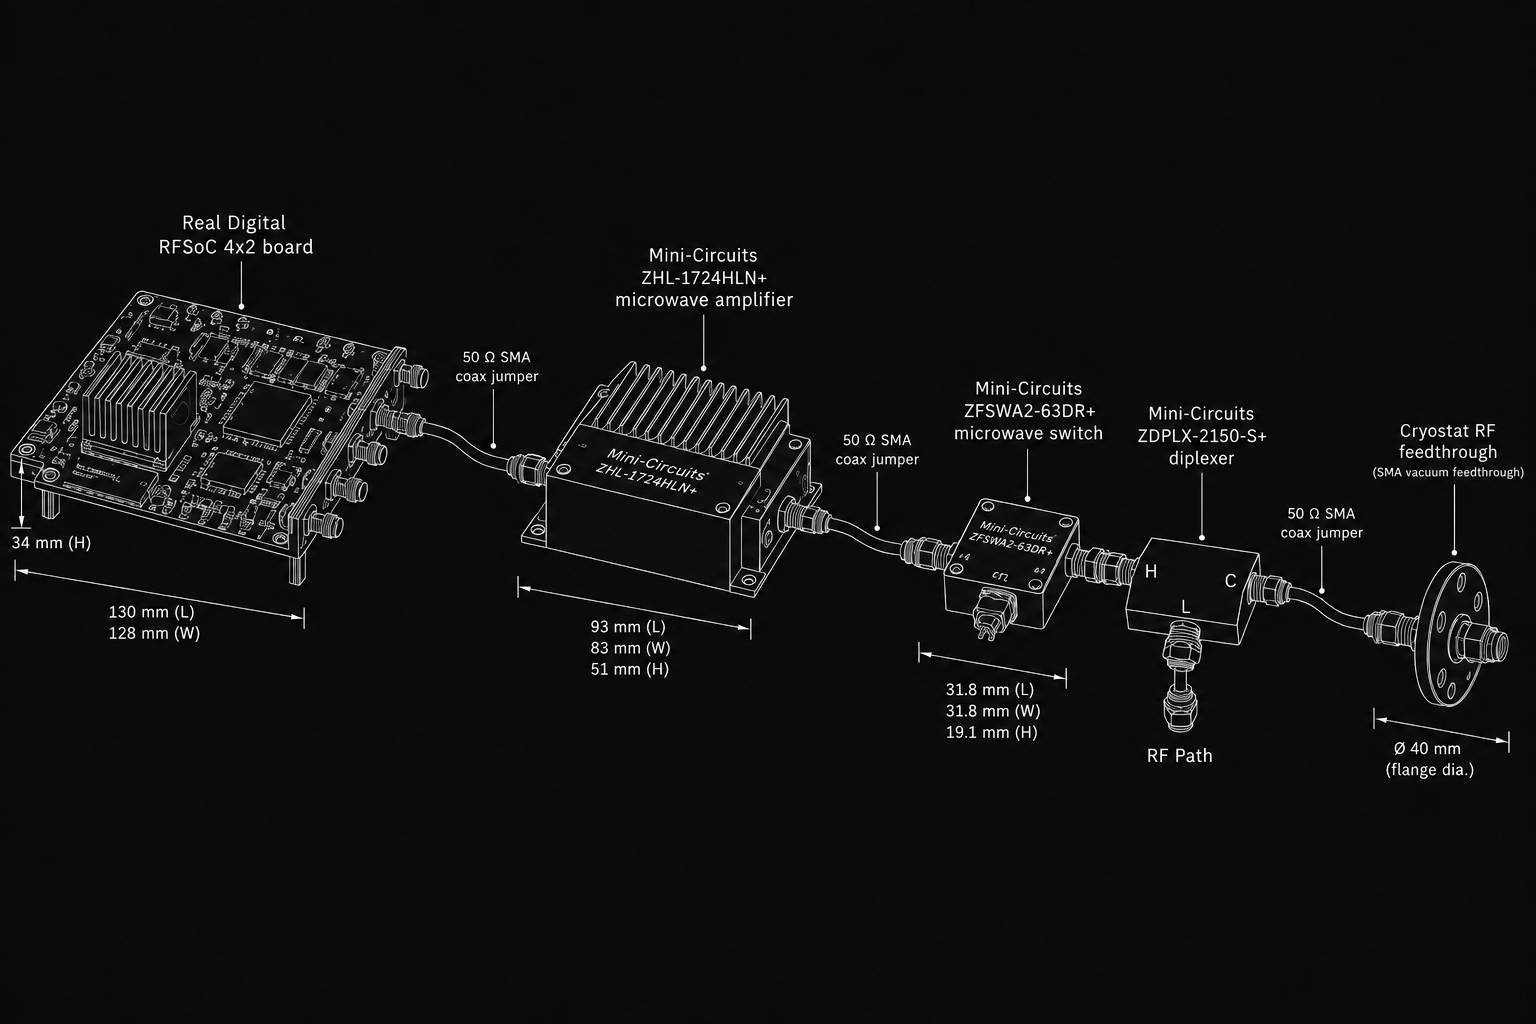
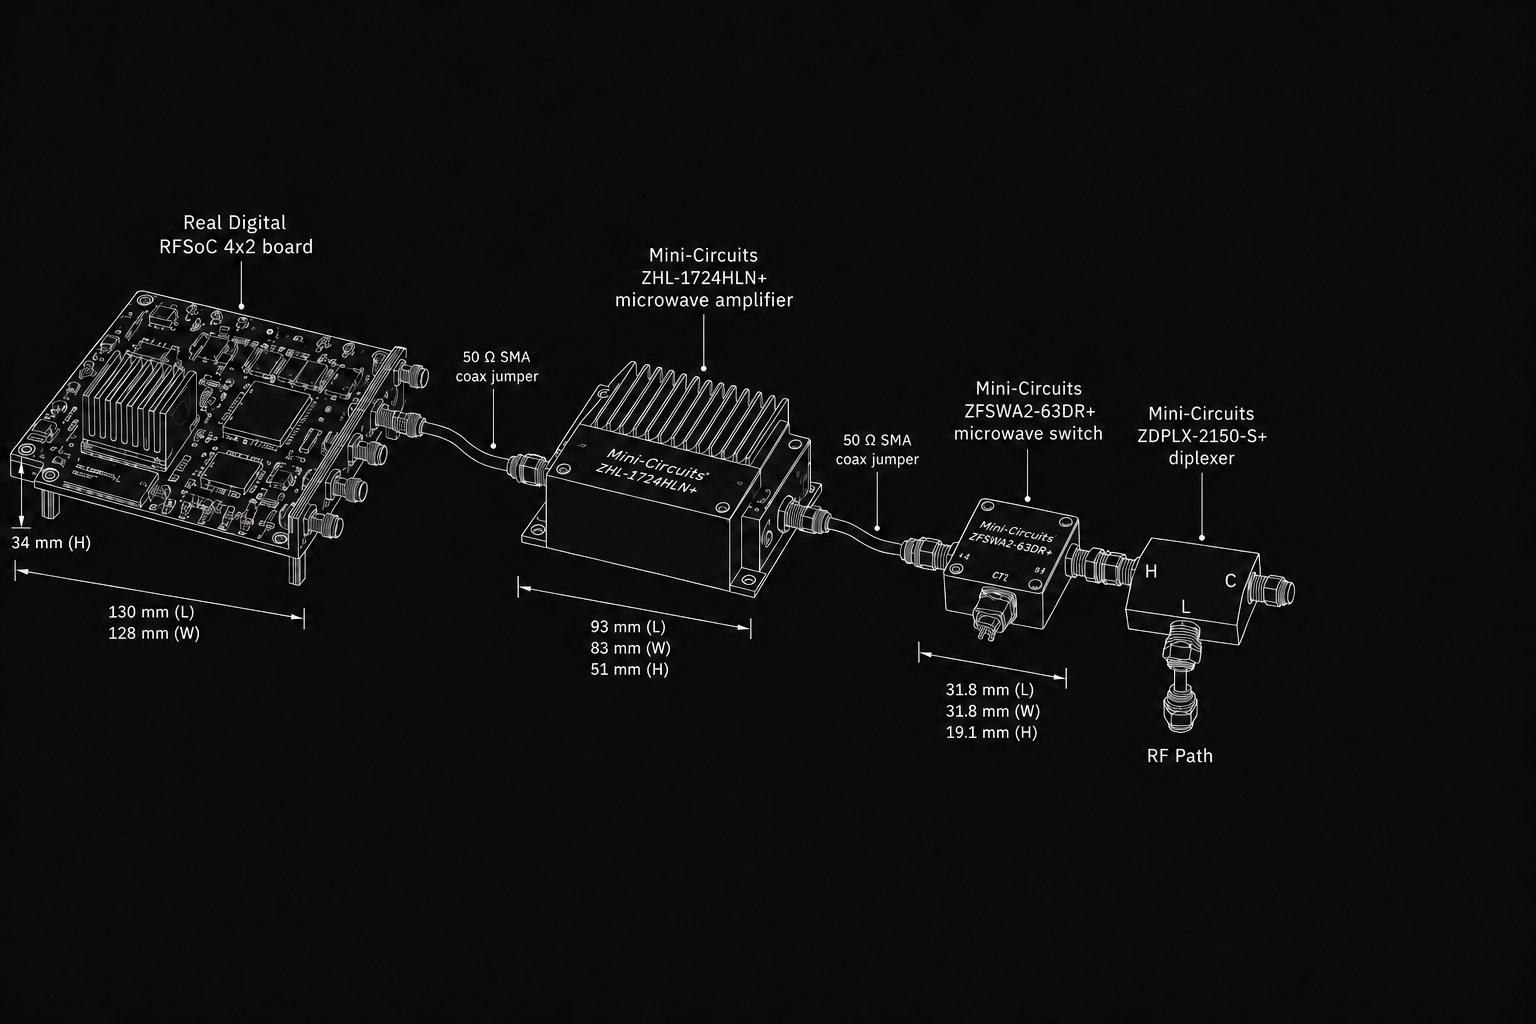
Tighten the Diamond QPU copy and refresh the MW/RF drawings.

diff --git a/web/src/DiamondQpu.tsx b/web/src/DiamondQpu.tsx
@@ -115,8 +115,8 @@ export default function DiamondQpu() {
         </p>
         <p>The diamond is then characterized to identify an NV with:</p>
         <p>
-          <strong>Stable fluorescence:</strong> the NV must remain predominantly
-          in the NV<sup>−</sup> charge state and produce a repeatable
+          <strong>Stable fluorescence:</strong> We prepare the NV into the
+          NV<sup>−</sup> charge state. It must produce a repeatable
           fluorescence count rate under repeated 515&nbsp;nm excitation, without
           significant blinking or charge-state switching. The acceptance
           threshold will be set from measured photon-count statistics during
@@ -140,7 +140,7 @@ export default function DiamondQpu() {
       </section>
 
       <section>
-        <h2>3. ASIC and flip-chip</h2>
+        <h2>3. ASIC antenna and flip-chip bonding</h2>
         <p>
           On-diamond metallisation is replaced by an ASIC. The ASIC is flip-chip
           bonded onto the diamond plate. It carries microwave and RF delivery to
@@ -158,7 +158,7 @@ export default function DiamondQpu() {
           and every entangling gate is a pulse sent through this ASIC into those
           spins. Bump geometry, trace layout, waveguide alignment and the
           required field at the NV are fixed after simulation and bonding
-          trials; we do not pattern Ti/Au rails directly onto the diamond.
+          trials.
         </p>
       </section>
 
@@ -203,7 +203,8 @@ export default function DiamondQpu() {
       <section>
         <h2>5. Cooling and optical environment</h2>
         <p>
-          The cryostat is replaced by a triple Peltier stack. Three
+          In place of a bulky cryostat, the diamond QPU uses a triple Peltier
+          stack for heat dissipation. Three
           thermoelectric stages cool the diamond package; heat is dumped through
           semiconductor heat dissipators on the hot side of the stack.
         </p>
@@ -214,9 +215,10 @@ export default function DiamondQpu() {
           for the ASIC, the photonic load and the 515&nbsp;nm diode.
         </p>
         <p>
-          Excitation and collection go through the on-chip photonic circuit. A
-          free-space objective is not required to run the machine. A microscope
-          can still be used to find the NV before bonding.
+          <strong>
+            All excitation and collection goes through the on-chip silicon
+            photonic circuit.
+          </strong>
         </p>
         <p>
           One RF line carries the combined microwave and nuclear-spin RF signal
@@ -622,17 +624,23 @@ export default function DiamondQpu() {
           <li>Run the circuits.</li>
         </ul>
         <p>The intended workflow is approximately:</p>
-        <pre>
-          <code>{`from pathfinder import PathfinderProvider
-from qiskit import transpile
-
-provider = PathfinderProvider()
-backend = provider.get_backend("diamond_qpu")
-
-circuit = transpile(circuit, backend)
-job = backend.run(circuit, shots=1000)
-
-result = job.result()`}</code>
+        <pre className="spec-py" tabIndex={0}>
+          <code>
+            <span className="py-kw">from</span> pathfinder{' '}
+            <span className="py-kw">import</span> PathfinderProvider{'\n'}
+            <span className="py-kw">from</span> qiskit{' '}
+            <span className="py-kw">import</span> transpile{'\n'}
+            {'\n'}
+            provider = PathfinderProvider(){'\n'}
+            backend = provider.get_backend(
+            <span className="py-str">&quot;diamond_qpu&quot;</span>){'\n'}
+            {'\n'}
+            circuit = transpile(circuit, backend){'\n'}
+            job = backend.run(circuit, shots=
+            <span className="py-num">1000</span>){'\n'}
+            {'\n'}
+            result = job.result()
+          </code>
         </pre>
         <p>
           The Pathfinder backend exposes its native gate set, available qubits,

diff --git a/web/src/Spec.css b/web/src/Spec.css
@@ -124,3 +124,22 @@
 .spec code {
   font-family: inherit;
 }
+
+.spec-py {
+  background: var(--bg-black);
+  color: #e6e4dc;
+  border: 0;
+  padding: 1.25rem 1.3rem;
+}
+
+.spec-py .py-kw {
+  color: #d4a05a;
+}
+
+.spec-py .py-str {
+  color: #8fbf6a;
+}
+
+.spec-py .py-num {
+  color: #7eb8da;
+}
